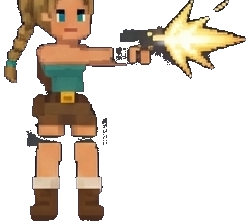
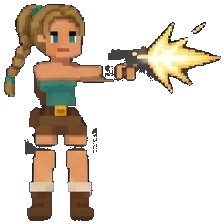
Fix sprite extraction artifacts, redesign Act 1 hat mechanics, hard scroll gating
Sprite extraction:
- Fix a stray glyph leaking into Pat'a's walk_1 frame: the row-label detector
  only recognized text starting within x<100, so longer labels like
  "2 - WALK CYCLE" had their tail end mistaken for character content; the
  x-position constraint is no longer needed since y-position/height already
  reliably separate label text from character art
- Add the abhi_nohat sprite set (idle/walk/gundraw/fire), extracted from a new
  hatless reference sheet, so Abhi's body sprite genuinely swaps to bareheaded
  when the wind takes his fedora instead of just a decorative prop flying past
  a still-hatted body
- Fix a small top-margin inconsistency in Pat'a's walk_1 vs walk_2-4 that made
  her head visibly bob/zoom between frames during the walk cycle

Act 1 story beats:
- Pat'a's hat now drifts in from the right and lands at 2/3 across the stage
  (previously centered), and she now stops short of it instead of walking
  through/past it
- The wind gust animation got a mirrored right-to-left variant for her path;
  Abhi's own left-to-right sweep is unchanged
- The found hat/torch item no longer auto-hides on a scroll-position timer —
  it now stays until the player actually clicks to collect it
- Both tap-object icons (chest lid fedora, ground fedora) now render the real
  sprite art instead of the old hand-drawn SVG hat

Scroll/story gating:
- The mystery scroll's popup is bigger, shows the actual sought character's
[…]

Changed region(s): [[0.0, 0.0, 1.0, 0.9688], [0.8438, 0.0, 0.9375, 0.0625], [0.375, 0.9062, 0.4375, 0.9688]]

diff --git a/index.html b/index.html
@@ -181,13 +181,16 @@
     40%{transform:translate(50px,-50px) rotate(35deg); opacity:1;}
     100%{transform:translate(170px,-190px) rotate(110deg); opacity:0;}
   }
-  .stage-hat{position:absolute; left:74%; bottom:100px; width:48px; height:auto; opacity:0; pointer-events:none; image-rendering:pixelated; image-rendering:crisp-edges;}
+  /* Pat'a's hat drifts in from the right and settles centered on the stage
+     (translateX(-50%) anchors it by center, like the meet-stage sprites, so
+     "land in the middle" doesn't depend on guessing the stage's pixel width) */
+  .stage-hat{position:absolute; left:66%; bottom:100px; width:56px; height:auto; opacity:0; pointer-events:none; transform:translateX(-50%); image-rendering:pixelated; image-rendering:crisp-edges;}
   .stage-hat.hat-arriving{animation:hatDrift 1.8s ease-out forwards;}
   @keyframes hatDrift{
-    0%{opacity:0; transform:translate(140px,-100px) rotate(-55deg);}
-    50%{opacity:1; transform:translate(50px,-24px) rotate(-18deg);}
-    78%{transform:translate(8px,66px) rotate(6deg);}
-    100%{opacity:1; transform:translate(0,88px) rotate(0deg);}
+    0%{opacity:0; transform:translateX(-50%) translate(230px,-110px) rotate(60deg);}
+    50%{opacity:1; transform:translateX(-50%) translate(90px,-30px) rotate(20deg);}
+    78%{transform:translateX(-50%) translate(20px,58px) rotate(-6deg);}
+    100%{opacity:1; transform:translateX(-50%) translate(0,84px) rotate(0deg);}
   }
   .stage-hat.hat-taken{animation:none !important; opacity:0 !important; transition:opacity 0.35s steps(3);}
   .wind-gust{position:absolute; left:-15%; top:16%; width:65%; height:62%; opacity:0; pointer-events:none; color:rgba(242,239,223,0.75);}
@@ -198,9 +201,18 @@
     80%{opacity:0.7;}
     100%{opacity:0; transform:translateX(175%);}
   }
+  /* reversed for Pat'a: the wind (and the hat it carries) comes from the right */
+  .wind-gust.gust-reverse{left:auto; right:-15%;}
+  .wind-gust.gust-reverse.gust-play{animation:gustSweepReverse 1.4s steps(12) forwards;}
+  @keyframes gustSweepReverse{
+    0%{opacity:0; transform:translateX(0);}
+    12%{opacity:0.9;}
+    80%{opacity:0.7;}
+    100%{opacity:0; transform:translateX(-175%);}
+  }
   @media (prefers-reduced-motion: reduce){
     .hat-flying .walker-hat{animation:none; opacity:0;}
-    .stage-hat.hat-arriving{animation:none; opacity:1; transform:translate(0,88px);}
+    .stage-hat.hat-arriving{animation:none; opacity:1; transform:translateX(-50%) translate(0,84px);}
     .wind-gust.gust-play{animation:none;}
   }
 
@@ -385,9 +397,16 @@
 
   /* footer */
   .footer{background:var(--olive-deepest); color:var(--cream); text-align:center; padding:5rem 1.5rem 3rem;}
-  .footer .sprite-box{width:240px; height:150px; margin:0 auto 1.4rem; display:flex; align-items:flex-end; justify-content:center; gap:8px;}
+  .footer .sprite-box{width:240px; height:150px; margin:0 auto 1.4rem; position:relative; display:flex; align-items:flex-end; justify-content:center; gap:8px;}
   .footer .sprite-box img{height:140px; width:auto; image-rendering:pixelated; image-rendering:crisp-edges;}
   .footer .sprite-box img#footerPaty{height:126px;} /* ~90% of Abhi's height — same size relationship as the Act 3 reunion */
+  .footer .sprite-box img#footerAbhi{transform:scaleX(-1);} /* mirrored so the couple face each other, matching the Act 3 reunion convention */
+  .footer-heart{position:absolute; top:-8px; left:50%; transform:translate(-50%,0); width:34px; height:30px; color:#C4A661;}
+  .footer-deco{position:absolute; bottom:20%; font-size:1.1rem; opacity:0.8; animation:footerTwinkle 2.4s ease-in-out infinite;}
+  .footer-deco-l{left:2%;}
+  .footer-deco-r{right:2%; animation-delay:1.1s;}
+  @keyframes footerTwinkle{0%,100%{opacity:0.35; transform:translateY(0) scale(0.9);} 50%{opacity:0.9; transform:translateY(-6px) scale(1.05);}}
+  @media (prefers-reduced-motion: reduce){ .footer-deco{animation:none;} }
   .footer-names{font-family:var(--script); font-size:clamp(2.4rem,6vw,3.4rem); color:var(--gold-light);}
   .footer p{margin-top:0.9rem; opacity:0.62; font-size:0.92rem;}
   .footer .px-credit{font-family:var(--pixel); font-size:0.46rem; opacity:0.4; margin-top:2.2rem; line-height:2;}
@@ -585,7 +604,7 @@
       <img class="stage-hat" id="stageHat" src="assets/abhi/prop_hat.png" alt="">
       <div class="sprite-walker walk-bob" id="act1Sprite"></div>
     </div>
-    <div class="dialog px-reveal" id="act1Dialog2"></div>
+    <div class="dialog px-reveal" id="act1Dialog2" data-manual-reveal="true"></div>
     <button class="tap-object px-reveal" id="chest1" aria-label="Interact">
       <svg class="px" viewBox="0 0 64 48" width="88" height="66" id="tapObjSvg"></svg>
       <span class="tap-tag" id="tapTag">[ TAP TO OPEN ]</span>
@@ -602,47 +621,25 @@
     <div class="dialog px-reveal" id="act2Dialog1" data-gate="chest1"></div>
     <div class="dialog px-reveal" id="act2Dialog2" data-gate="chest1"></div>
     <button class="tap-object px-reveal" id="scroll1" aria-label="Unroll the scroll">
-      <svg class="px" viewBox="0 0 72 96" width="90" height="120">
+      <svg class="px" viewBox="0 0 100 140" width="150" height="210">
         <g id="scrollRolled">
-          <rect x="8" y="38" width="56" height="18" fill="#C9B896"/>
-          <rect x="8" y="38" width="56" height="4" fill="#A89B78"/>
-          <rect x="4" y="34" width="6" height="26" fill="#6B4A26"/>
-          <rect x="62" y="34" width="6" height="26" fill="#6B4A26"/>
-          <rect x="30" y="44" width="12" height="6" fill="#B0473B"/>
+          <rect x="10" y="55" width="80" height="26" fill="#C9B896"/>
+          <rect x="10" y="55" width="80" height="6" fill="#A89B78"/>
+          <rect x="4" y="48" width="8" height="40" fill="#6B4A26"/>
+          <rect x="88" y="48" width="8" height="40" fill="#6B4A26"/>
+          <rect x="42" y="64" width="16" height="8" fill="#B0473B"/>
         </g>
         <g id="scrollOpen" style="display:none;">
-          <rect x="10" y="2" width="52" height="6" fill="#6B4A26"/>
-          <rect x="10" y="88" width="52" height="6" fill="#6B4A26"/>
-          <rect x="14" y="8" width="44" height="80" fill="#C9B896"/>
-          <rect x="14" y="8" width="44" height="3" fill="#A89B78"/>
-          <rect x="14" y="85" width="44" height="3" fill="#A89B78"/>
-          <text x="36" y="22" text-anchor="middle" font-family="'Press Start 2P',monospace" font-size="7" fill="#4A3218">SOUGHT</text>
-          <g id="posterAbhi" style="display:none;">
-            <rect x="26" y="25" width="20" height="6" fill="#2C1E0E"/>
-            <rect x="28" y="23" width="16" height="3" fill="#2C1E0E"/>
-            <rect x="26" y="31" width="2" height="3" fill="#2C1E0E"/>
-            <rect x="44" y="31" width="2" height="3" fill="#2C1E0E"/>
-            <rect x="31" y="25" width="2" height="2" fill="#4A3218"/>
-            <rect x="38" y="24" width="2" height="2" fill="#4A3218"/>
-            <rect x="27" y="31" width="18" height="16" fill="#B07B4A"/>
-            <rect x="31" y="36" width="3" height="3" fill="#1A1B2E"/>
-            <rect x="39" y="36" width="3" height="3" fill="#1A1B2E"/>
-            <rect x="29" y="42" width="14" height="3" fill="#3E2C14"/>
-            <rect x="27" y="40" width="3" height="4" fill="#3E2C14"/>
-            <rect x="42" y="40" width="3" height="4" fill="#3E2C14"/>
-          </g>
-          <g id="posterPaty" style="display:none;">
-            <rect x="26" y="23" width="20" height="7" fill="#E8C170"/>
-            <rect x="22" y="26" width="5" height="20" fill="#E8C170"/>
-            <rect x="27" y="29" width="18" height="16" fill="#D9A066"/>
-            <rect x="30" y="34" width="3" height="3" fill="#3B6EA8"/>
-            <rect x="39" y="34" width="3" height="3" fill="#3B6EA8"/>
-            <rect x="33" y="41" width="6" height="2" fill="#B0473B"/>
-          </g>
-          <rect x="20" y="54" width="32" height="2" fill="#8C7B5A"/>
-          <rect x="20" y="60" width="32" height="2" fill="#8C7B5A"/>
-          <rect x="20" y="66" width="24" height="2" fill="#8C7B5A"/>
-          <text x="36" y="80" text-anchor="middle" font-family="'Press Start 2P',monospace" font-size="4.5" fill="#6B4A26">IF FOUND: WRITE</text>
+          <rect x="14" y="2" width="72" height="8" fill="#6B4A26"/>
+          <rect x="14" y="130" width="72" height="8" fill="#6B4A26"/>
+          <rect x="20" y="10" width="60" height="120" fill="#C9B896"/>
+          <rect x="20" y="10" width="60" height="4" fill="#A89B78"/>
+          <rect x="20" y="126" width="60" height="4" fill="#A89B78"/>
+          <text x="50" y="27" text-anchor="middle" font-family="'Press Start 2P',monospace" font-size="9" fill="#4A3218">SOUGHT</text>
+          <rect x="30" y="34" width="40" height="56" fill="#00000022"/>
+          <image id="posterImg" href="" x="32" y="34" width="36" height="56" preserveAspectRatio="xMidYMax meet" style="image-rendering:pixelated;"/>
+          <text x="50" y="118" text-anchor="middle" font-family="'Press Start 2P',monospace" font-size="6" fill="#6B4A26">IF FOUND:</text>
+          <text x="50" y="127" text-anchor="middle" font-family="'Press Start 2P',monospace" font-size="6" fill="#6B4A26">WRITE</text>
         </g>
       </svg>
       <span class="tap-tag" id="tapTagScroll">[ TAP TO UNROLL THE SCROLL ]</span>
@@ -855,8 +852,11 @@
 
   <footer class="footer">
     <div class="sprite-box">
+      <span class="footer-deco footer-deco-l" aria-hidden="true">&#10024;</span>
+      <div class="footer-heart"><svg class="px" viewBox="0 0 40 36" width="100%" height="100%"><use href="#px-heart"/></svg></div>
       <img id="footerPaty" src="assets/paty/idle_1.png" alt="Pat'a Croft">
       <img id="footerAbhi" src="assets/abhi/idle_1.png" alt="Abhi Jones">
+      <span class="footer-deco footer-deco-r" aria-hidden="true">&#10024;</span>
     </div>
     <div class="footer-names">Patricia &amp; Abhiroop</div>
     <p id="footLine1">Lucknow to Dublin. Trnava to Prague. And now, one shared map.</p>
@@ -1031,14 +1031,15 @@
     + '</g>';
   var FEDORA_GROUND_SVG = '<g id="chestClosed1">'
     + '<rect x="6" y="38" width="52" height="5" fill="#3A3650"/>'
-    + '<g transform="translate(-8,22)"><use href="#fedora-only"/></g>'
+    + '<image href="assets/abhi/prop_hat.png" x="8" y="10" width="48" height="34" preserveAspectRatio="xMidYMid meet" style="image-rendering:pixelated;"/>'
     + '</g><g id="chestOpen1" style="display:none;">'
-    + '<g transform="translate(-8,8)"><use href="#fedora-only"/></g>'
+    + '<image href="assets/abhi/prop_hat.png" x="6" y="1" width="52" height="37" preserveAspectRatio="xMidYMid meet" style="image-rendering:pixelated;"/>'
     + '<rect x="10" y="34" width="4" height="4" fill="#FFD97A"/>'
     + '<rect x="50" y="30" width="4" height="4" fill="#FFD97A"/>'
     + '<rect x="30" y="42" width="4" height="4" fill="#FFD97A"/>'
     + '</g>';
   var hatFlown = false, hatArrived = false, hatTaken = false;
+  var scrollFreezeY = null; // set the instant the hat-loss/hat-arrival moment triggers; cleared when its chest is opened
 
   // ============ SPRITE ART (replaces the old hand-coded SVG rigs) ============
   var PATY_SPRITES = { idle: ['assets/paty/idle_1.png','assets/paty/idle_2.png'],
@@ -1062,9 +1063,10 @@
   startSpriteLoop(document.getElementById('abhiCardImg'), ABHI_SPRITES.idle, 550);
   var act1WalkTimer = null;
 
-  function spawnWind(){
+  function spawnWind(reverse){
     var gust = document.getElementById('windGust');
     gust.classList.remove('gust-play');
+    gust.classList.toggle('gust-reverse', !!reverse);
     void gust.offsetWidth; // restart animation
     gust.classList.add('gust-play');
   }
@@ -1124,9 +1126,9 @@
         +'<rect x="200" y="44" width="80" height="46" fill="#5A4A2E"/><rect x="216" y="30" width="20" height="16" fill="#5A4A2E"/><rect x="252" y="30" width="20" height="16" fill="#5A4A2E"/>'
         +'<rect x="60" y="56" width="8" height="10" fill="#FFB347"/><rect x="230" y="58" width="8" height="10" fill="#FFB347"/>'
         +'</svg>';
-    // scroll poster shows the OTHER character
-    document.getElementById('posterAbhi').style.display = (side==='bride') ? '' : 'none';
-    document.getElementById('posterPaty').style.display = (side==='groom') ? '' : 'none';
+    // scroll poster shows the OTHER character (hatless for Abhi — by this point
+    // in the story his fedora has already blown away, per Act 1)
+    document.getElementById('posterImg').setAttribute('href', side==='bride' ? ABHI_NOHAT_SPRITES.idle[0] : PATY_SPRITES.idle[0]);
     // dialog voice colors
     var voiceClass = (side==='bride') ? 'paty-voice' : 'abhi-voice';
     ['act1Dialog1','act1Dialog2','act2Dialog2','act2Dialog3'].forEach(function(id){
@@ -1189,6 +1191,7 @@
   function resetInteractions(){
     resetToken++; // cancel any in-flight typewriter animations
     clearInterval(act1WalkTimer);
+    scrollFreezeY = null;
     var c = document.getElementById('chest1'); c.classList.remove('opened');
     document.getElementById('chestClosed1').style.display = '';
     document.getElementById('chestOpen1').style.display = 'none';
@@ -1218,6 +1221,11 @@
     this.classList.add('opened');
     document.getElementById('chestClosed1').style.display = 'none';
     document.getElementById('chestOpen1').style.display = '';
+    scrollFreezeY = null; // scrolling onward is now allowed
+    if(chosenSide === 'bride'){
+      hatTaken = true;
+      document.getElementById('stageHat').classList.add('hat-taken');
+    }
     sndTap();
     var lootEl = document.getElementById('act1Loot');
     typewriteInto(lootEl, lootEl.dataset.full || '', {speed:16});
@@ -1225,6 +1233,12 @@
     revealGated('chest1');
   });
   document.getElementById('scroll1').addEventListener('click', function(){
+    // guard against clicking scroll1 out of order — the scroll stop still lets it
+    // peek into view at the bottom of the viewport before chest1 is opened
+    if(!document.getElementById('chest1').classList.contains('opened')){
+      document.getElementById('chest1').scrollIntoView({behavior:'smooth', block:'center'});
+      return;
+    }
     this.classList.add('opened');
     document.getElementById('scrollRolled').style.display = 'none';
     document.getElementById('scrollOpen').style.display = '';
@@ -1240,6 +1254,17 @@
     btn.style.display = 'none';
     sndBigMoment();
     showAchievement('\uD83D\uDC95', UI[currentLang].achQuestComplete);
+    // walk-cycle both characters while they close the distance, then settle to idle
+    var patyMeetBody = document.querySelector('#spriteMeetPaty .walker-body');
+    var abhiMeetBody = document.querySelector('#spriteMeetAbhi .walker-body');
+    var meetWalkTimerPaty = startSpriteLoop(patyMeetBody, PATY_SPRITES.walk, 160);
+    var meetWalkTimerAbhi = startSpriteLoop(abhiMeetBody, ABHI_NOHAT_SPRITES.walk, 160);
+    setTimeout(function(){
+      clearInterval(meetWalkTimerPaty);
+      clearInterval(meetWalkTimerAbhi);
+      patyMeetBody.src = PATY_SPRITES.idle[0];
+      abhiMeetBody.src = ABHI_NOHAT_SPRITES.idle[0];
+    }, 1600); // matches the .meet-stage .sprite-walker left-transition duration
     setTimeout(function(){
       var d = document.getElementById('act3Dialog2');
       d.style.display = '';
@@ -1304,7 +1329,7 @@
         }
       });
     }, {threshold:0.2});
-    document.querySelectorAll('.px-reveal').forEach(function(el){ pxIO.observe(el); });
+    document.querySelectorAll('.px-reveal:not([data-manual-reveal])').forEach(function(el){ pxIO.observe(el); });
     var elIO = new IntersectionObserver(function(entries){
       entries.forEach(function(e){ if(e.isIntersecting){ e.target.classList.add('is-visible'); } });
     }, {threshold:0.15});
@@ -1322,11 +1347,15 @@
       if(act1 && sprite && document.getElementById('pixelWorld').classList.contains('active')){
         var r = act1.getBoundingClientRect();
         var progress = Math.min(Math.max(-r.top / (r.height - window.innerHeight || 1), 0), 1);
-        sprite.style.left = (8 + progress * 62) + '%';
+        // Pat'a stops short of where the hat lands (66%) instead of walking through it;
+        // Abhi's own range is unaffected since his hat leaves from his own position.
+        var walkSpan = chosenSide === 'bride' ? 36 : 62;
+        sprite.style.left = (8 + progress * walkSpan) + '%';
         // fedora wind choreography
         if(chosenSide === 'groom'){
-          if(progress > 0.4 && !hatFlown){
+          if(progress > 0.33 && !hatFlown){
             hatFlown = true;
+            scrollFreezeY = window.scrollY; // don't let scrolling outrun the hat-loss moment
             spawnWind();
             sndLost();
             showAchievement('\uD83D\uDCA8', UI[currentLang].achLostFedora);
@@ -1337,21 +1366,47 @@
             if(bodyImg){ act1WalkTimer = startSpriteLoop(bodyImg, ABHI_NOHAT_SPRITES.walk, 160); }
             sprite.insertAdjacentHTML('beforeend', '<div class="walker-hat"><img class="hat-icon" src="' + ABHI_SPRITES.hat + '" alt=""></div>');
             sprite.classList.add('hat-flying');
+            // dialogue about the hat only starts once the hatFly animation (1.25s) has played out
+            setTimeout(function(){
+              revealPxElement(document.getElementById('act1Dialog2'));
+            }, 1250);
           }
         } else if(chosenSide === 'bride'){
           if(progress > 0.3 && !hatArrived){
             hatArrived = true;
-            spawnWind();
+            scrollFreezeY = window.scrollY; // don't let scrolling outrun the hat-arrival moment
+            spawnWind(true);
+            // dialogue about the hat only starts once the hatDrift animation (1.8s) has played out
+            setTimeout(function(){
+              revealPxElement(document.getElementById('act1Dialog2'));
+            }, 1800);
             document.getElementById('stageHat').classList.add('hat-arriving');
           }
-          if(progress > 0.82 && hatArrived && !hatTaken){
-            hatTaken = true;
-            document.getElementById('stageHat').classList.add('hat-taken');
-          }
+          // the hat stays put \u2014 it's removed when chest1 is clicked (see its handler),
+          // not on a scroll-position timer
         }
       }
       walkTicking = false;
     });
+  }, {passive:true});
+
+  // ============ HARD SCROLL STOP: can't scroll past an unopened tap-object ============
+  // Recomputed on every scroll tick (not cached) since dialogue boxes grow as they
+  // typewrite, shifting everything below them — a cached ceiling would go stale.
+  window.addEventListener('scroll', function(){
+    if(!document.getElementById('pixelWorld').classList.contains('active')){ return; }
+    var chest1 = document.getElementById('chest1');
+    var scroll1 = document.getElementById('scroll1');
+    var ceiling = Infinity;
+    if(chest1 && !chest1.classList.contains('opened')){
+      ceiling = chest1.getBoundingClientRect().bottom + window.scrollY + 40;
+      // the moment the hat-loss/hat-arrival animation starts, freeze scrolling right
+      // there — don't let a fast scroll skip past it straight to the chest's own ceiling
+      if(scrollFreezeY !== null){ ceiling = Math.min(ceiling, scrollFreezeY); }
+    } else if(scroll1 && !scroll1.classList.contains('opened')){
+      ceiling = scroll1.getBoundingClientRect().bottom + window.scrollY + 40;
+    }
+    if(window.scrollY > ceiling){ window.scrollTo(0, ceiling); }
   }, {passive:true});
 
   // ============ RSVP ============
